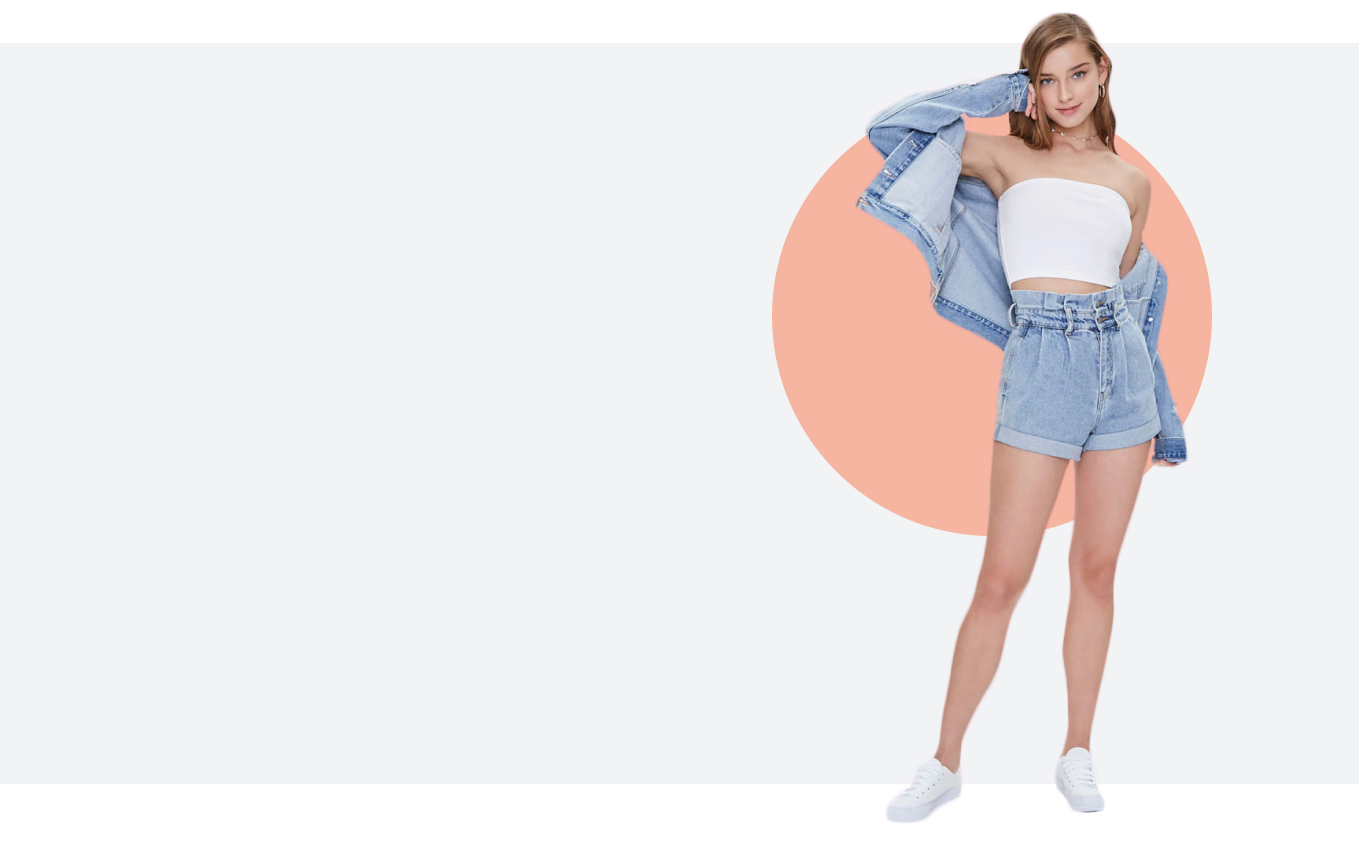
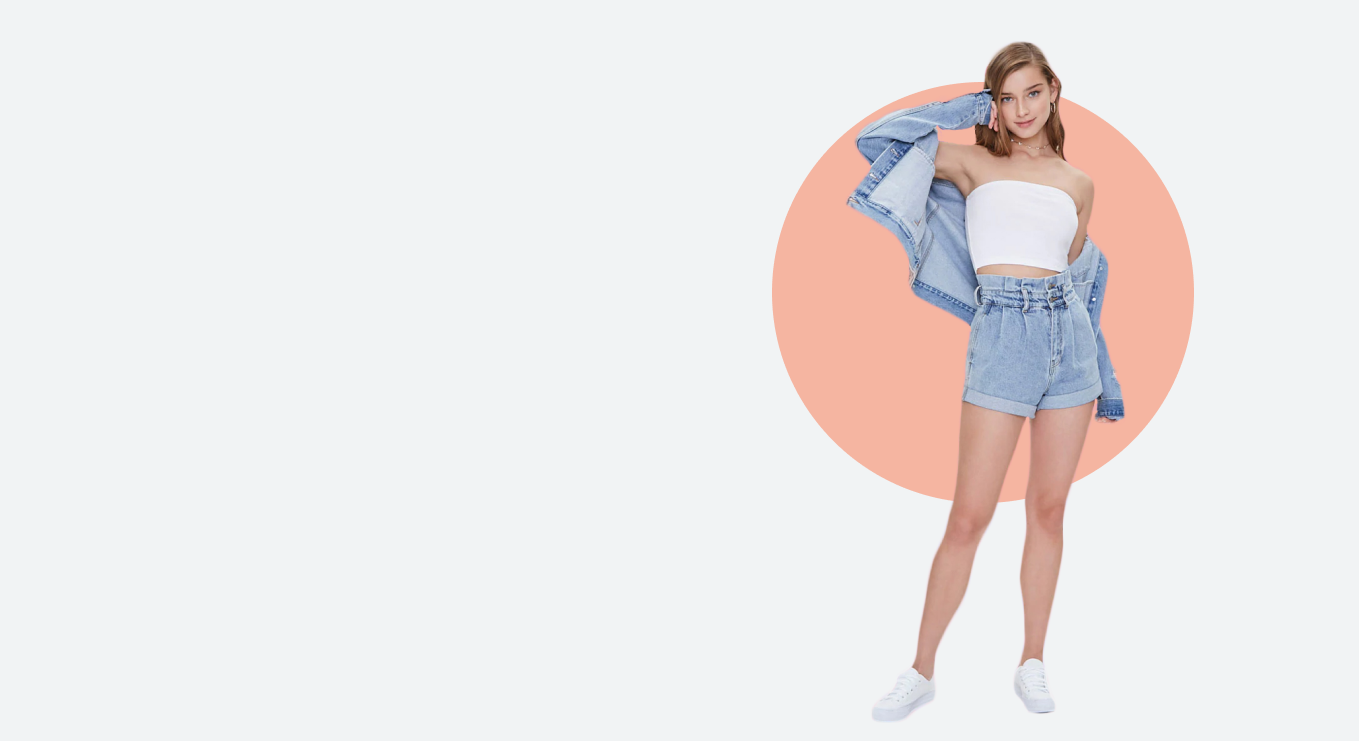
added sass loader, added new button styles, edited product landing

Changed region(s): [[0.5563, 0.0, 0.8962, 0.9892]]

diff --git a/src/styles/index.scss b/src/styles/index.scss
@@ -1,9 +1,27 @@
 @import url(https://maxcdn.bootstrapcdn.com/bootstrap/latest/css/bootstrap.min.css);
-
 @import url('https://fonts.googleapis.com/css2?family=Muli:wght@400;600;700&display=swap');
+@import 'variables';
 
 body{
     background-color: white;
+}
+
+h1 {
+  font-size: 50px;
+}
+
+h2 {
+  font-size: 40px;
+}
+
+h1, h2{
+  font-weight: 700;
+  color: black;
+}
+
+h4 {
+  font-weight: 600;
+  color: grey;
 }
 
 .bg-dark{
@@ -22,6 +40,122 @@ body{
         }
     }
 }
+
+// .button-primary {
+//   position: absolute;
+//   // top: 50%;
+//   // left: 50%;
+//   transform: translate(-50%, -50%);
+// }
+
+.button-primary {
+  text-align: center;
+  color: white;
+  background-color: black;
+  padding: 15px 25px;
+  margin-right: 20px;
+  text-transform: uppercase;
+  position: relative;
+  overflow: hidden;
+  cursor: pointer;
+  
+  span {
+      position: relative;
+      z-index: 100;
+  }
+  
+  &:before, &:after {
+      content:'';
+      position: absolute;
+      display: block;
+      height: 100%;
+      width: 100%;
+      top: 0;
+      left: 0;
+  }
+  
+  &:before {
+      transform: translate3d(-100%, 0, 0);
+      background-color: white;
+      transition: transform 300ms ease-in-out;
+
+      span{
+        color: black;
+      }
+  }
+  
+  &:after {
+      background-color: $color-brand;
+      transform: translate3d(100%, 0, 0);
+      transition: transform 300ms 300ms cubic-bezier(.16,.73,.58,.62);
+  }
+  
+  &:hover {
+      &:before {
+          transform: translate3d(0,0,0);
+      }
+      
+      &:after {
+          transform: translate3d(0,0,0);
+      }
+  }
+}
+
+.button-secondary {
+  color: black;
+  background-color: transparent;
+  border: 2.5px solid black;
+  padding: 15px 25px;
+  text-align: center;
+  text-transform: uppercase;
+  position: relative;
+  overflow: hidden;
+  cursor: pointer;
+  
+  span {
+    position: relative;
+    z-index: 100;
+  }
+  
+  &:before, &:after {
+      content:'';
+      position: absolute;
+      display: block;
+      height: 100%;
+      width: 100%;
+      top: 0;
+      left: 0;
+  }
+  
+  &:before {
+      transform: translate3d(-100%, 0, 0);
+      border: 2.5px solid white;
+      background-color: white;
+      transition: transform 300ms ease-in-out;
+  }
+  
+  &:after {
+      background-color: $color-brand;
+      transform: translate3d(100%, 0, 0);
+      transition: transform 300ms 300ms cubic-bezier(.16,.73,.58,.62);
+  }
+  
+  &:hover {
+    border: 2.5px solid $color-brand;
+      &:before {
+          transform: translate3d(0,0,0);
+      }
+      
+      &:after {
+        transform: translate3d(0,0,0);
+      }
+
+      span{
+        color: white;
+      }
+  }
+}
+
 .btn.btn-primary{
     background-color: #000;
     border-color: #000;

diff --git a/src/views/ProductLanding.vue b/src/views/ProductLanding.vue
@@ -1,18 +1,28 @@
 <template>
   <div class="product-landing-page">
-    <div class="hero-banner" style="background-image: url('./images/hero_img.png');">
+    <div class="hero-banner">
       <div class="container">
         <div class="row">
-          <div class="col-md-4">
+          <div class="col-md-6">
             <div class="copy-container">
               <h1>Shop the Look</h1>
               <!-- eslint-disable-next-line max-len -->
               <h4>Include an add all products. Lorem ipsum dolor sit amet, consectetur</h4>
-              <a class="btn btn-primary"
-                href="#productListing"
-                v-smooth-scroll="{ duration: 1000, updateHistory: false }"
-              >See Items</a>
+              <div class="button-group">
+                <div class="button-primary">
+                  <span>Buy Look</span>
+                </div>
+                <div class="button-secondary"
+                  href="#productListing"
+                  v-smooth-scroll="{ duration: 1000, updateHistory: false }"
+                >
+                  <span>See Items</span>
+                </div>
+              </div>
             </div>
+          </div>
+          <div class="col-md-4 hero-img">
+            <img src="/images/hero_img2.png">
           </div>
         </div>
       </div>
@@ -68,15 +78,30 @@ export default {
 };
 </script>
 <style scoped lang="scss">
+@import "../styles/_variables.scss";
+
 .hero-banner {
-  height: calc(100vh - 56px);
-  //background-repeat: no-repeat;
-  //background-position: center center;
-  background-size: cover;
+  height: calc(100vh - 50px);
+  margin: 30px;
+  background: $bg-color;
   .copy-container{
     margin-top: 30vh;
-    color:white;
+    width: 450px;
+
+    h1{
+      padding-bottom: 20px;
+    }
+
+    h4{
+      padding-bottom: 20px;
+    }
   }
+  .button-group{
+    display: flex;
+  }
+  // .hero-img{
+  //   border: 1px solid red;
+  // }
 }
 .form-categories{
   width:200px;

diff --git a/src/views/ProductItem.vue b/src/views/ProductItem.vue
@@ -11,7 +11,7 @@
                   <div class="col-6">
                     <div class="card-body">
                       <h2 class="card-title text-center">{{product.name}}</h2>
-                      <p class="card-price text-center">${{product.price.formatted}}</p>
+                      <h4 class="card-price text-center">${{product.price.formatted}}</h4>
                       <p class="text-center">
                         <span class="badge badge-primary"
                           v-for="(category, index) in product.categories"
@@ -137,9 +137,7 @@ export default {
 
 <!-- Add "scoped" attribute to limit CSS to this component only -->
 <style scoped lang="scss">
-    h2{
-      font-size: 50px;
-    }
+
     .btn{
         margin-top: 32px;
         width: 100%;
@@ -165,11 +163,12 @@ export default {
     }
     .product-item-container{
       min-height:80vh;
+      margin: 0 30px;
       padding: 20vh 0;
       background: #F1F3F4;
-      // background: -moz-linear-gradient(top,  #96909c 0%, #c9bdc5 100%);
-      // background: -webkit-linear-gradient(top,  #96909c 0%,#c9bdc5 100%);
-      // background: linear-gradient(to bottom,  #96909c 0%,#c9bdc5 100%);
+      background: -moz-linear-gradient(top,  #fff 0%, #F1F3F4 100%);
+      background: -webkit-linear-gradient(top,  #fff 0%,#F1F3F4 100%);
+      background: linear-gradient(to bottom,  #fff 0%,#F1F3F4 100%);
 
     }
 </style>

diff --git a/src/App.vue b/src/App.vue
@@ -136,18 +136,9 @@ export default {
 @import 'styles/index.scss';
 #app {
   font-family: 'Muli', sans-serif;
+  letter-spacing: 2.5px;
   -webkit-font-smoothing: antialiased;
   -moz-osx-font-smoothing: grayscale;
-}
-
-h1, h2{
-  font-weight: 700;
-  color: black;
-}
-
-h4 {
-  font-weight: 600;
-  color: grey;
 }
 
 .cart-count{
@@ -186,9 +177,14 @@ h4 {
   display: flex;
   position: relative;
   border-bottom: 2px solid black;
+  padding: 20px;
 
   .navbar-brand{
     display: flex;
+
+    img{
+      width: 150px;
+    }
   }
 }
 

diff --git a/vue.config.js b/vue.config.js
@@ -1,0 +1,14 @@
+// module.exports = {
+
+//   publicPath: '/',
+
+//   css: {
+//     loaderOptions: {
+//       sass: {
+//         prependData:
+//         `@import "@/styles/_variables.scss";
+//         @import "@/styles/_styles.scss";`,
+//       },
+//     },
+//   },
+// };

diff --git a/src/styles/_variables.scss b/src/styles/_variables.scss
@@ -1,0 +1,12 @@
+// Font styles
+// $font-primary: 'Amiko', sans-serif;
+// $font-secondary: 'Adamina', serif;
+
+// Colors
+$bg-color: #F1F3F4;
+
+// $text-primary: #292B83;
+// $text-grey: #7B7B7B;
+
+$color-brand: #EF4E42;
+$color-accent: #F6A58C;
